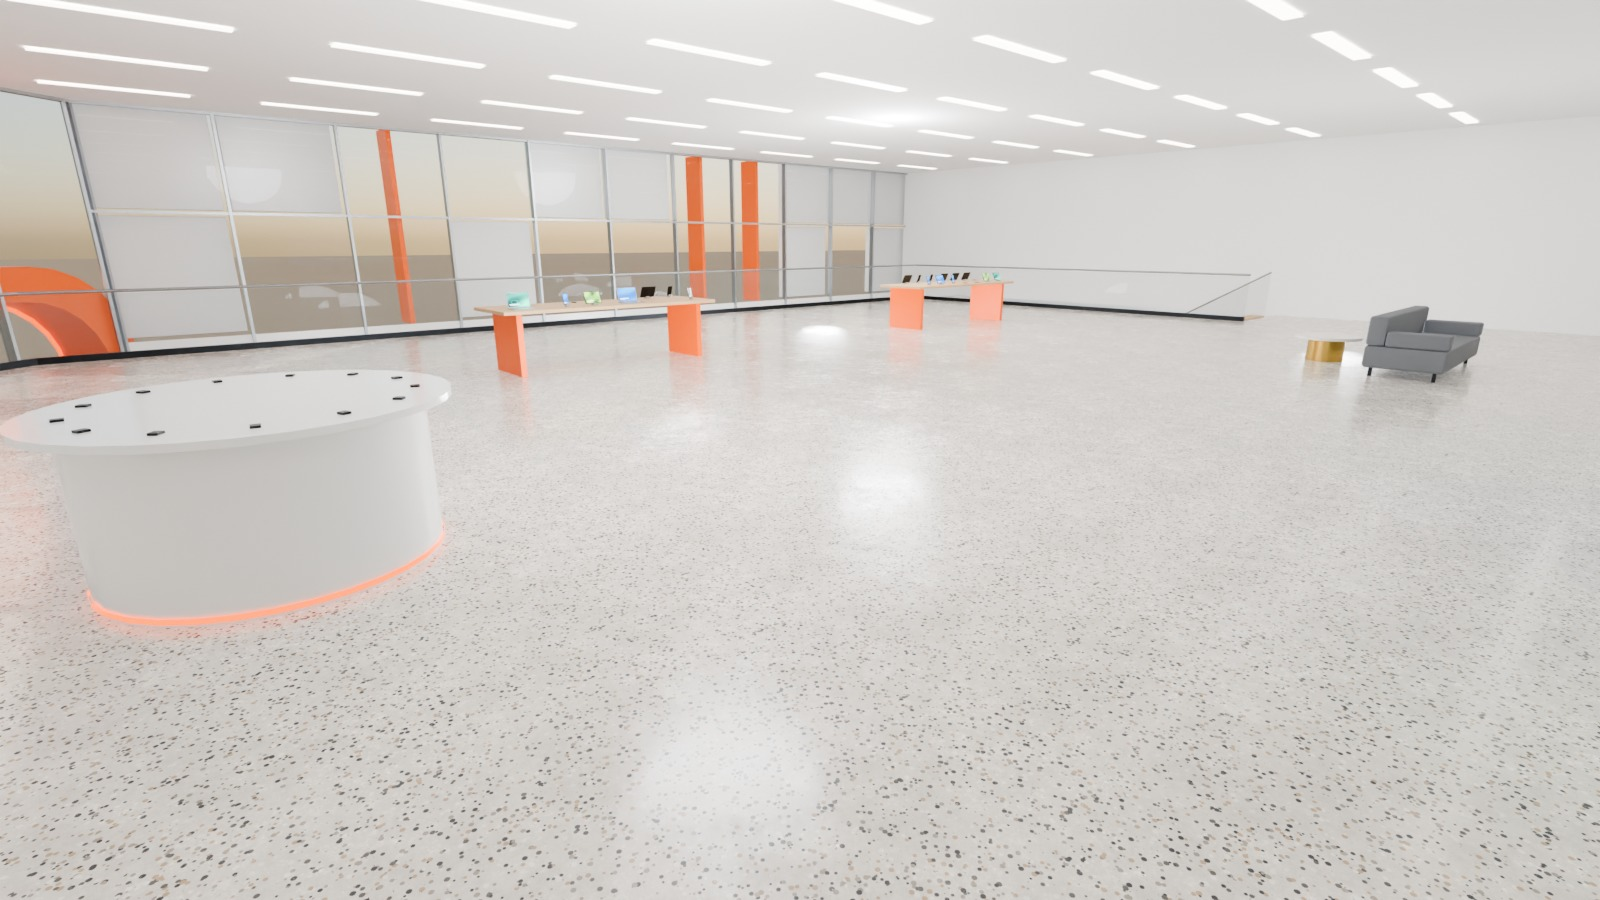
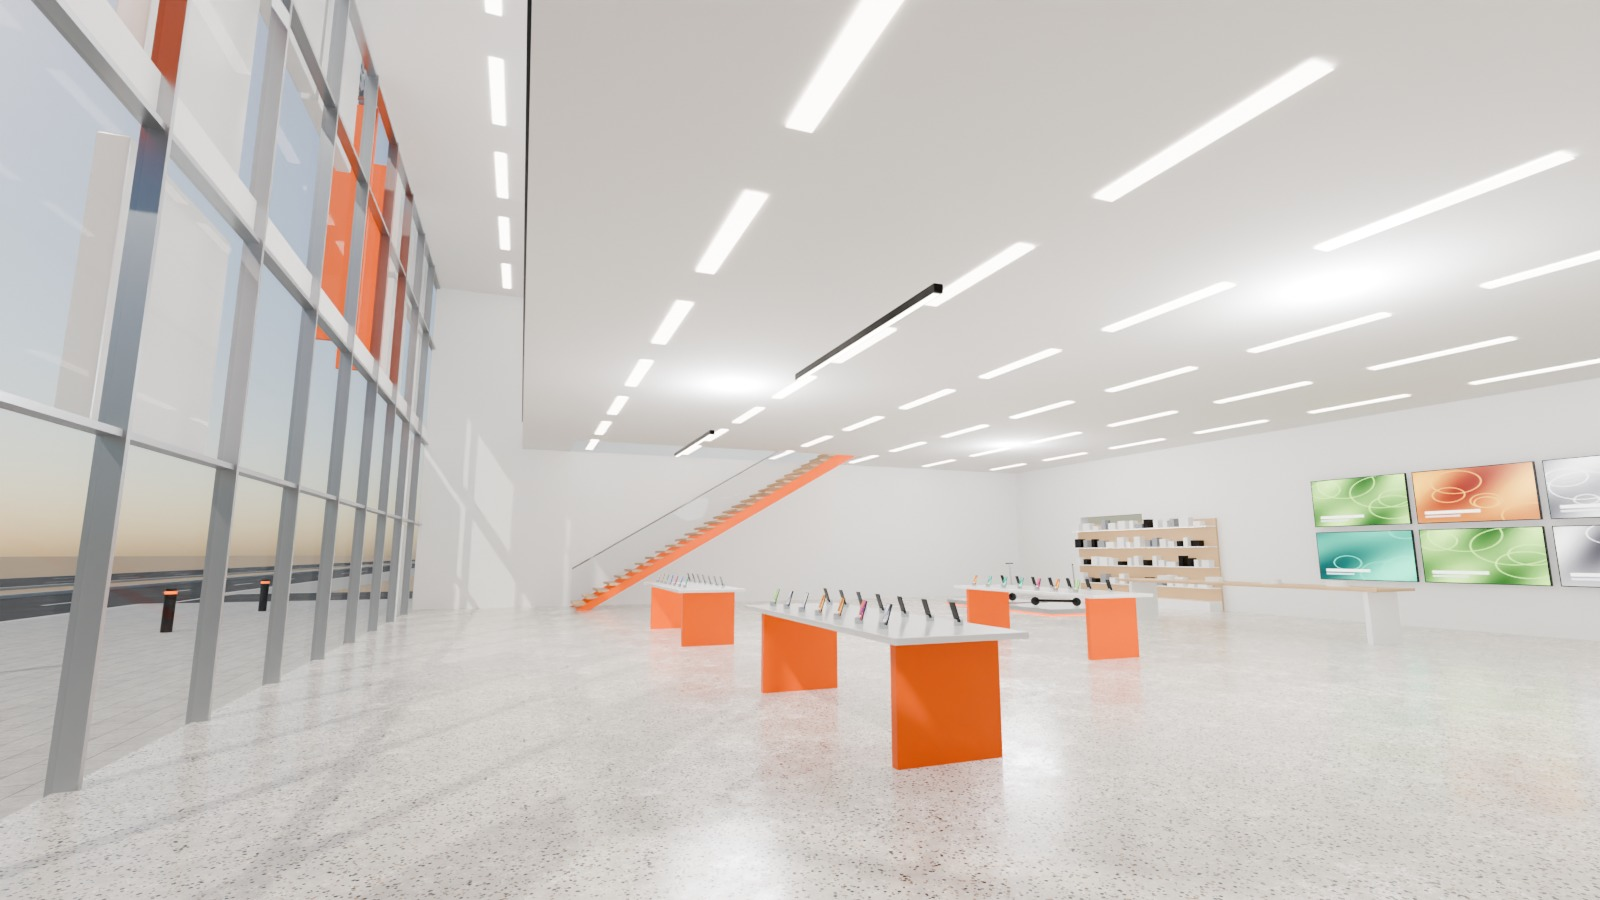
Premium Commercial 17 - Xiaomi interior re-shot from ground floor (stair + both levels); Batch B complete
Claude-Session: https://claude.ai/code/session_01SmYKsHWVuE7LRLWaF3pgwz

diff --git a/assets/roadside_stores/premium_commercial_17/BUILD_REPORT.md b/assets/roadside_stores/premium_commercial_17/BUILD_REPORT.md
@@ -1,6 +1,6 @@
 # Premium Commercial 17 - build report
 
-Generated 2026-11-03T20:49:43Z from the files on disk (Blender 4.5.15 LTS via the `bpy` module, Cycles CPU + OpenImageDenoise, headless Linux cloud container).
+Generated 2026-11-03T20:50:32Z from the files on disk (Blender 4.5.15 LTS via the `bpy` module, Cycles CPU + OpenImageDenoise, headless Linux cloud container).
 
 ## Checkpoint
 
@@ -108,6 +108,7 @@ Every asset has its own build script (`_tools/build_NN_*.py`) that designs its o
 - Branch: `claude/dubai-premium-commercial-17` (based on `claude/dubai-17-store-assets`).
 - Recent commits:
 ```
+91d1e3a Premium Commercial 17 - 08_shirin_restaurant validated and rendered (batch B)
 7e18bc5 Stop tracking verbose Cycles render logs (timings are kept in render_report.json)
 387ca5e Premium Commercial 17 - Xiaomi day re-render, render logs
 2fd6536 Premium Commercial 17 - work-in-progress checkpoint (Shirin rendering, Xiaomi interior re-shoot running)
@@ -115,5 +116,4 @@ d6a9b21 Premium Commercial 17 - 07_xiaomi_flagship validated and rendered (batch
 f8f6dd2 Premium Commercial 17 - Apple flagship validated and rendered
 4139a51 Premium Commercial 17 - checkpoint: Batch B-D buildings built and exported (renders in progress)
 9d05b25 Premium Commercial 17 - BMW two-storey interior render
-31bdf09 Premium Commercial 17 - Samsung flagship complete; BMW interior camera moved to show both storeys
 ```
